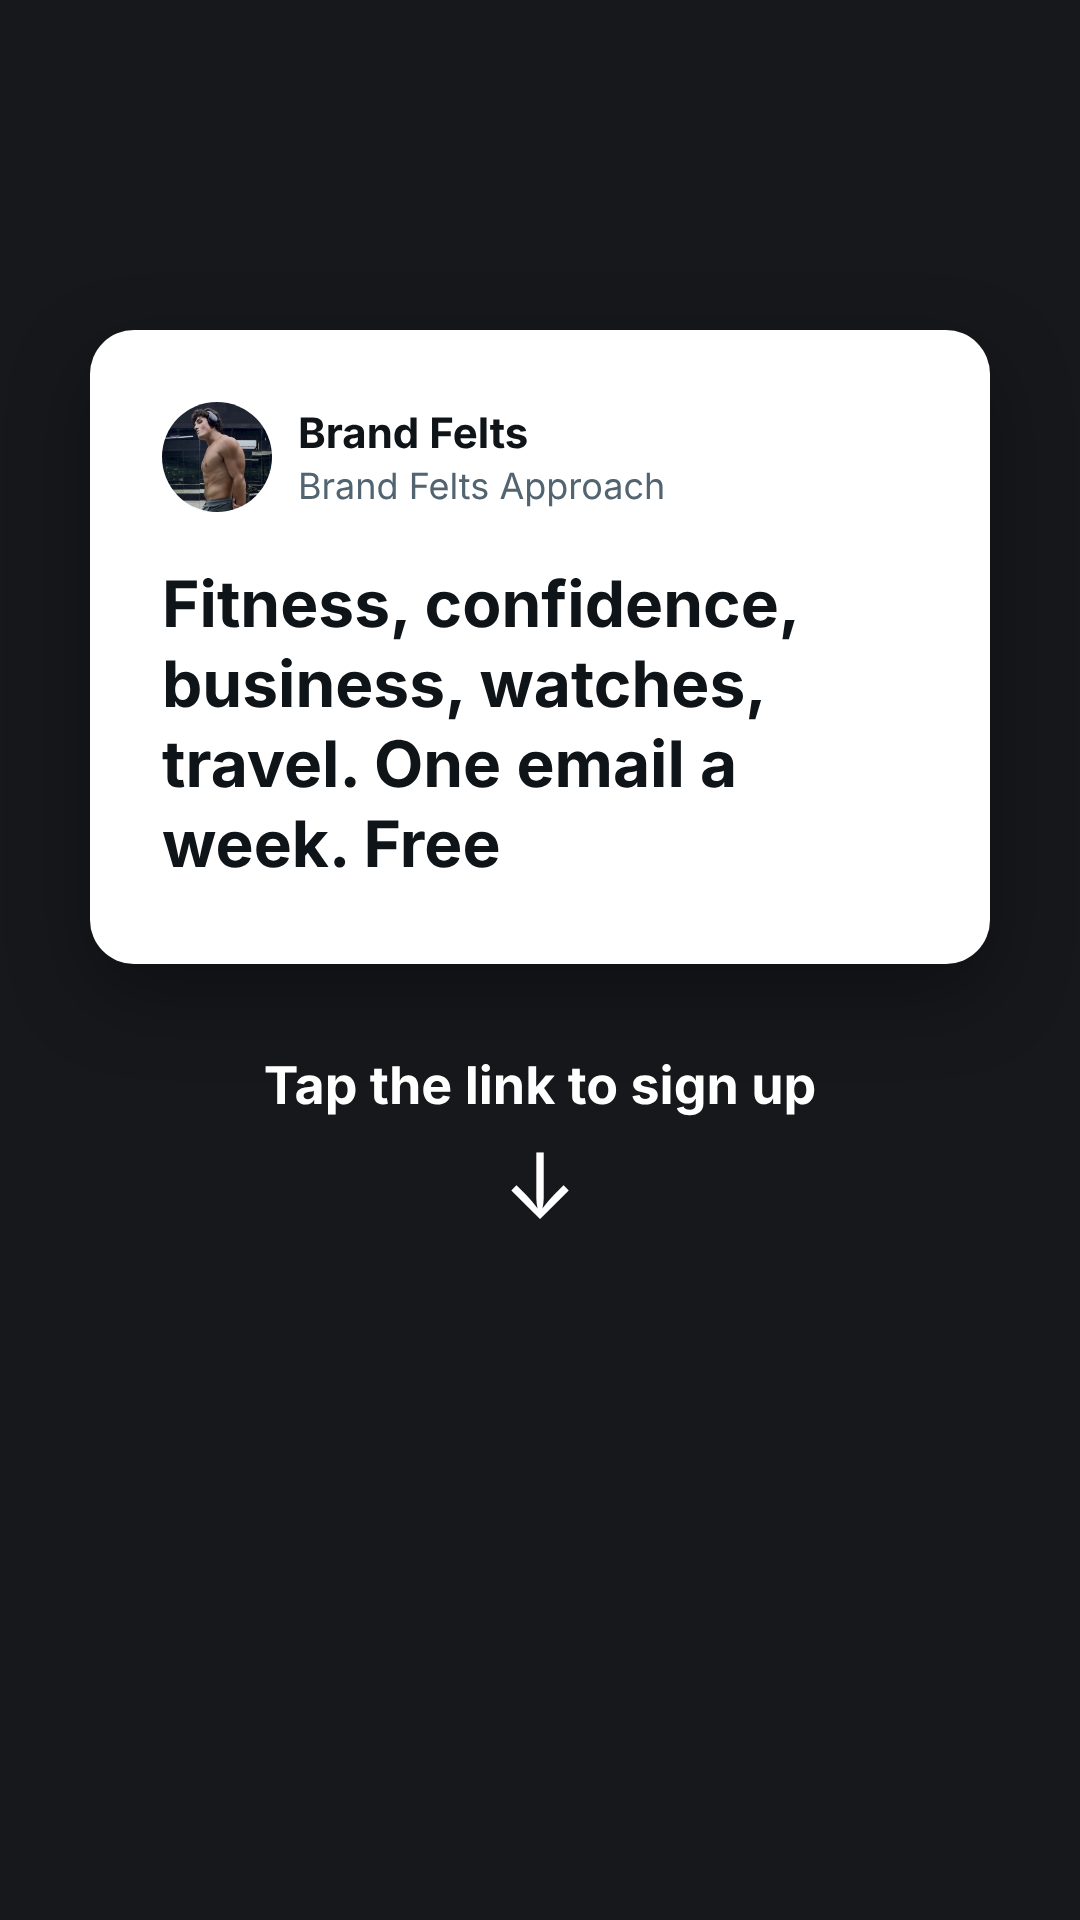
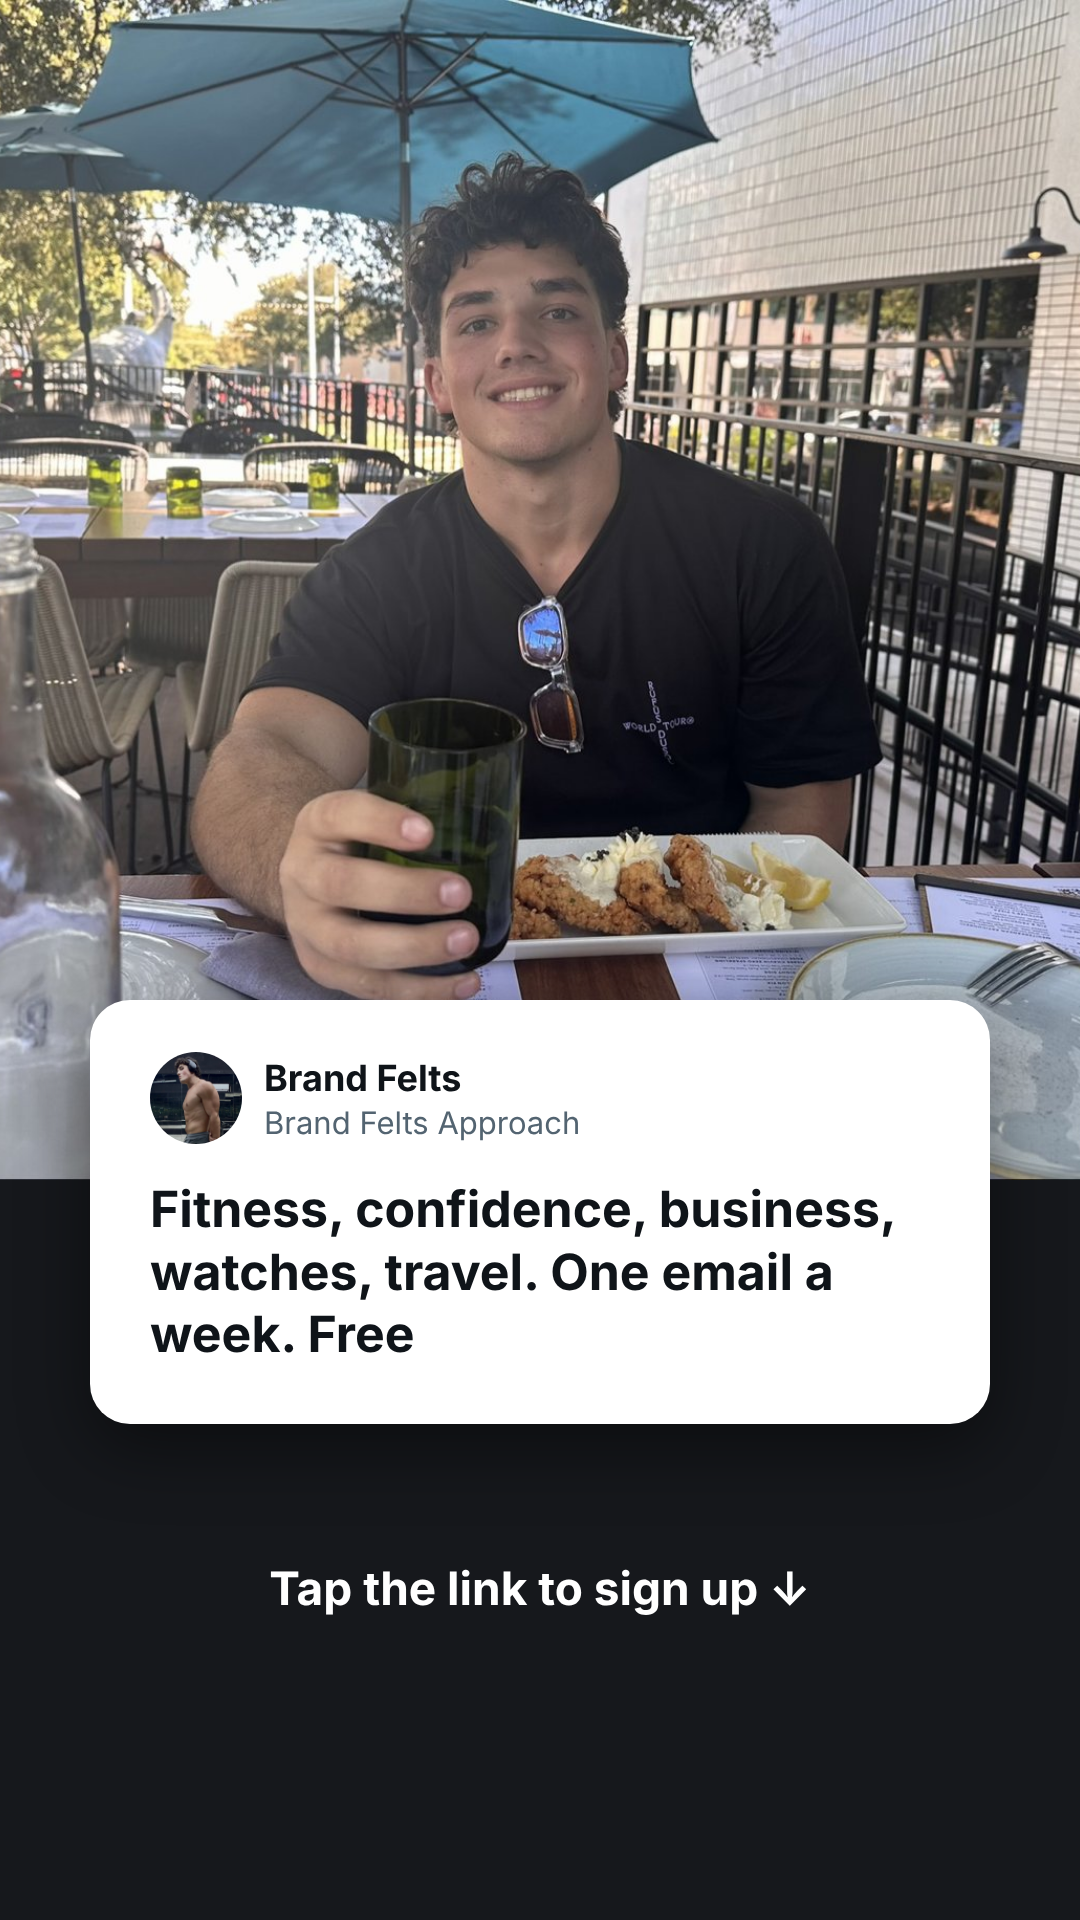
Story designs with photos

diff --git a/tools/make_stories.py b/tools/make_stories.py
@@ -1,40 +1,44 @@
-"""Render the newsletter story variants (1080x1920) into stories/story1.png ... storyN.png."""
+"""Render the newsletter story variants (1080x1920) into stories/story1.png ... storyN.png.
+Each story: a photo of Brand on top, the tweet-style card overlapping it, then the sign-up prompt.
+The bottom area is left clear for Instagram's link sticker."""
 import pathlib, html
 from playwright.sync_api import sync_playwright
 
 ROOT = pathlib.Path(__file__).resolve().parent.parent
 AVATAR = ROOT / "assets" / "avatar.jpg"
-LINES = [
-    "I send out a free newsletter every Monday. Fitness, business and whatever cool sh*t I'm into",
-    "Toolkits & Cool Sh*t drops Monday at noon. It's free",
-    "If you liked today's post, the newsletter goes deeper. Free every Monday",
-    "Fitness, confidence, business, watches, travel. One email a week. Free",
-    "Want the stuff I don't post here? It's in the newsletter",
-    "Sign up for my newsletter. It's free and it's not boring",
-    "Stop scrolling and read something useful. Free newsletter every Monday",
+P = ROOT / "assets" / "photos"
+# (line, photo, object-position focusing on Brand)
+STORIES = [
+    ("I send out a free newsletter every Monday. Fitness, business and whatever cool sh*t I'm into", "mirror.jpg", "50% 22%"),
+    ("Toolkits & Cool Sh*t drops Monday at noon. It's free", "yard.jpg", "32% 40%"),
+    ("If you liked today's post, the newsletter goes deeper. Free every Monday", "gymfull.jpg", "50% 42%"),
+    ("Fitness, confidence, business, watches, travel. One email a week. Free", "dinner.jpg", "50% 40%"),
+    ("Want the stuff I don't post here? It's in the newsletter", "festival.jpg", "50% 30%"),
+    ("Sign up for my newsletter. It's free and it's not boring", "mirror.jpg", "50% 30%"),
+    ("Stop scrolling and read something useful. Free newsletter every Monday", "gymfull.jpg", "50% 30%"),
 ]
 
-def page(text):
+def page(text, photo, pos):
     t = html.escape(text)
     return f"""<!doctype html><html><head><meta charset="utf-8"><style>body{{margin:0}}</style></head><body>
-<div style="width:1080px;height:1920px;background:#16181C;font-family:Inter,Arial,sans-serif;display:flex;flex-direction:column;align-items:center;justify-content:flex-start;padding-top:330px;box-sizing:border-box">
-<div style="width:900px;box-sizing:border-box;background:#FFFFFF;color:#0F1419;border-radius:44px;padding:72px 72px 80px;box-shadow:0 30px 80px rgba(0,0,0,.35)">
-<div style="display:flex;align-items:center;gap:26px">
-<img src="file://{AVATAR}" style="width:110px;height:110px;border-radius:55px;object-fit:cover">
-<div style="display:flex;flex-direction:column;gap:6px"><div style="font-size:42px;font-weight:700">Brand Felts</div><div style="font-size:36px;color:#536471">Brand Felts Approach</div></div></div>
-<p style="margin:52px 0 0 0;font-size:64px;line-height:1.25;font-weight:700">{t}</p>
+<div style="width:1080px;height:1920px;background:#16181C;font-family:Inter,Arial,sans-serif;position:relative;overflow:hidden">
+<img src="file://{P / photo}" style="position:absolute;left:0;top:0;width:1080px;height:1180px;object-fit:cover;object-position:{pos}">
+<div style="position:absolute;left:90px;top:1000px;width:900px;box-sizing:border-box;background:#FFFFFF;color:#0F1419;border-radius:40px;padding:52px 60px 58px;box-shadow:0 24px 70px rgba(0,0,0,.45)">
+<div style="display:flex;align-items:center;gap:22px">
+<img src="file://{AVATAR}" style="width:92px;height:92px;border-radius:46px;object-fit:cover">
+<div style="display:flex;flex-direction:column;gap:4px"><div style="font-size:36px;font-weight:700">Brand Felts</div><div style="font-size:31px;color:#536471">Brand Felts Approach</div></div></div>
+<p style="margin:34px 0 0 0;font-size:50px;line-height:1.25;font-weight:700">{t}</p>
 </div>
-<div style="margin-top:90px;color:#FFFFFF;font-size:52px;font-weight:700;text-align:center">Tap the link to sign up</div>
-<div style="margin-top:24px;color:#FFFFFF;font-size:90px;line-height:1">↓</div>
+<div style="position:absolute;left:0;right:0;top:1560px;text-align:center;color:#FFFFFF;font-size:46px;font-weight:700">Tap the link to sign up ↓</div>
 </div></body></html>"""
 
 out = ROOT / "stories"; out.mkdir(exist_ok=True)
 with sync_playwright() as p:
     b = p.chromium.launch(executable_path="/usr/bin/google-chrome", args=["--allow-file-access-from-files"])
     pg = b.new_page(viewport={"width": 1080, "height": 1920})
-    for i, line in enumerate(LINES, 1):
-        tmp = out / "_tmp.html"; tmp.write_text(page(line))
-        pg.goto("file://" + str(tmp)); pg.wait_for_timeout(300)
+    for i, (line, photo, pos) in enumerate(STORIES, 1):
+        tmp = out / "_tmp.html"; tmp.write_text(page(line, photo, pos))
+        pg.goto("file://" + str(tmp)); pg.wait_for_timeout(400)
         pg.screenshot(path=str(out / f"story{i}.png"))
     tmp.unlink(); b.close()
-print(f"{len(LINES)} stories -> {out}")
+print(f"{len(STORIES)} stories -> {out}")
